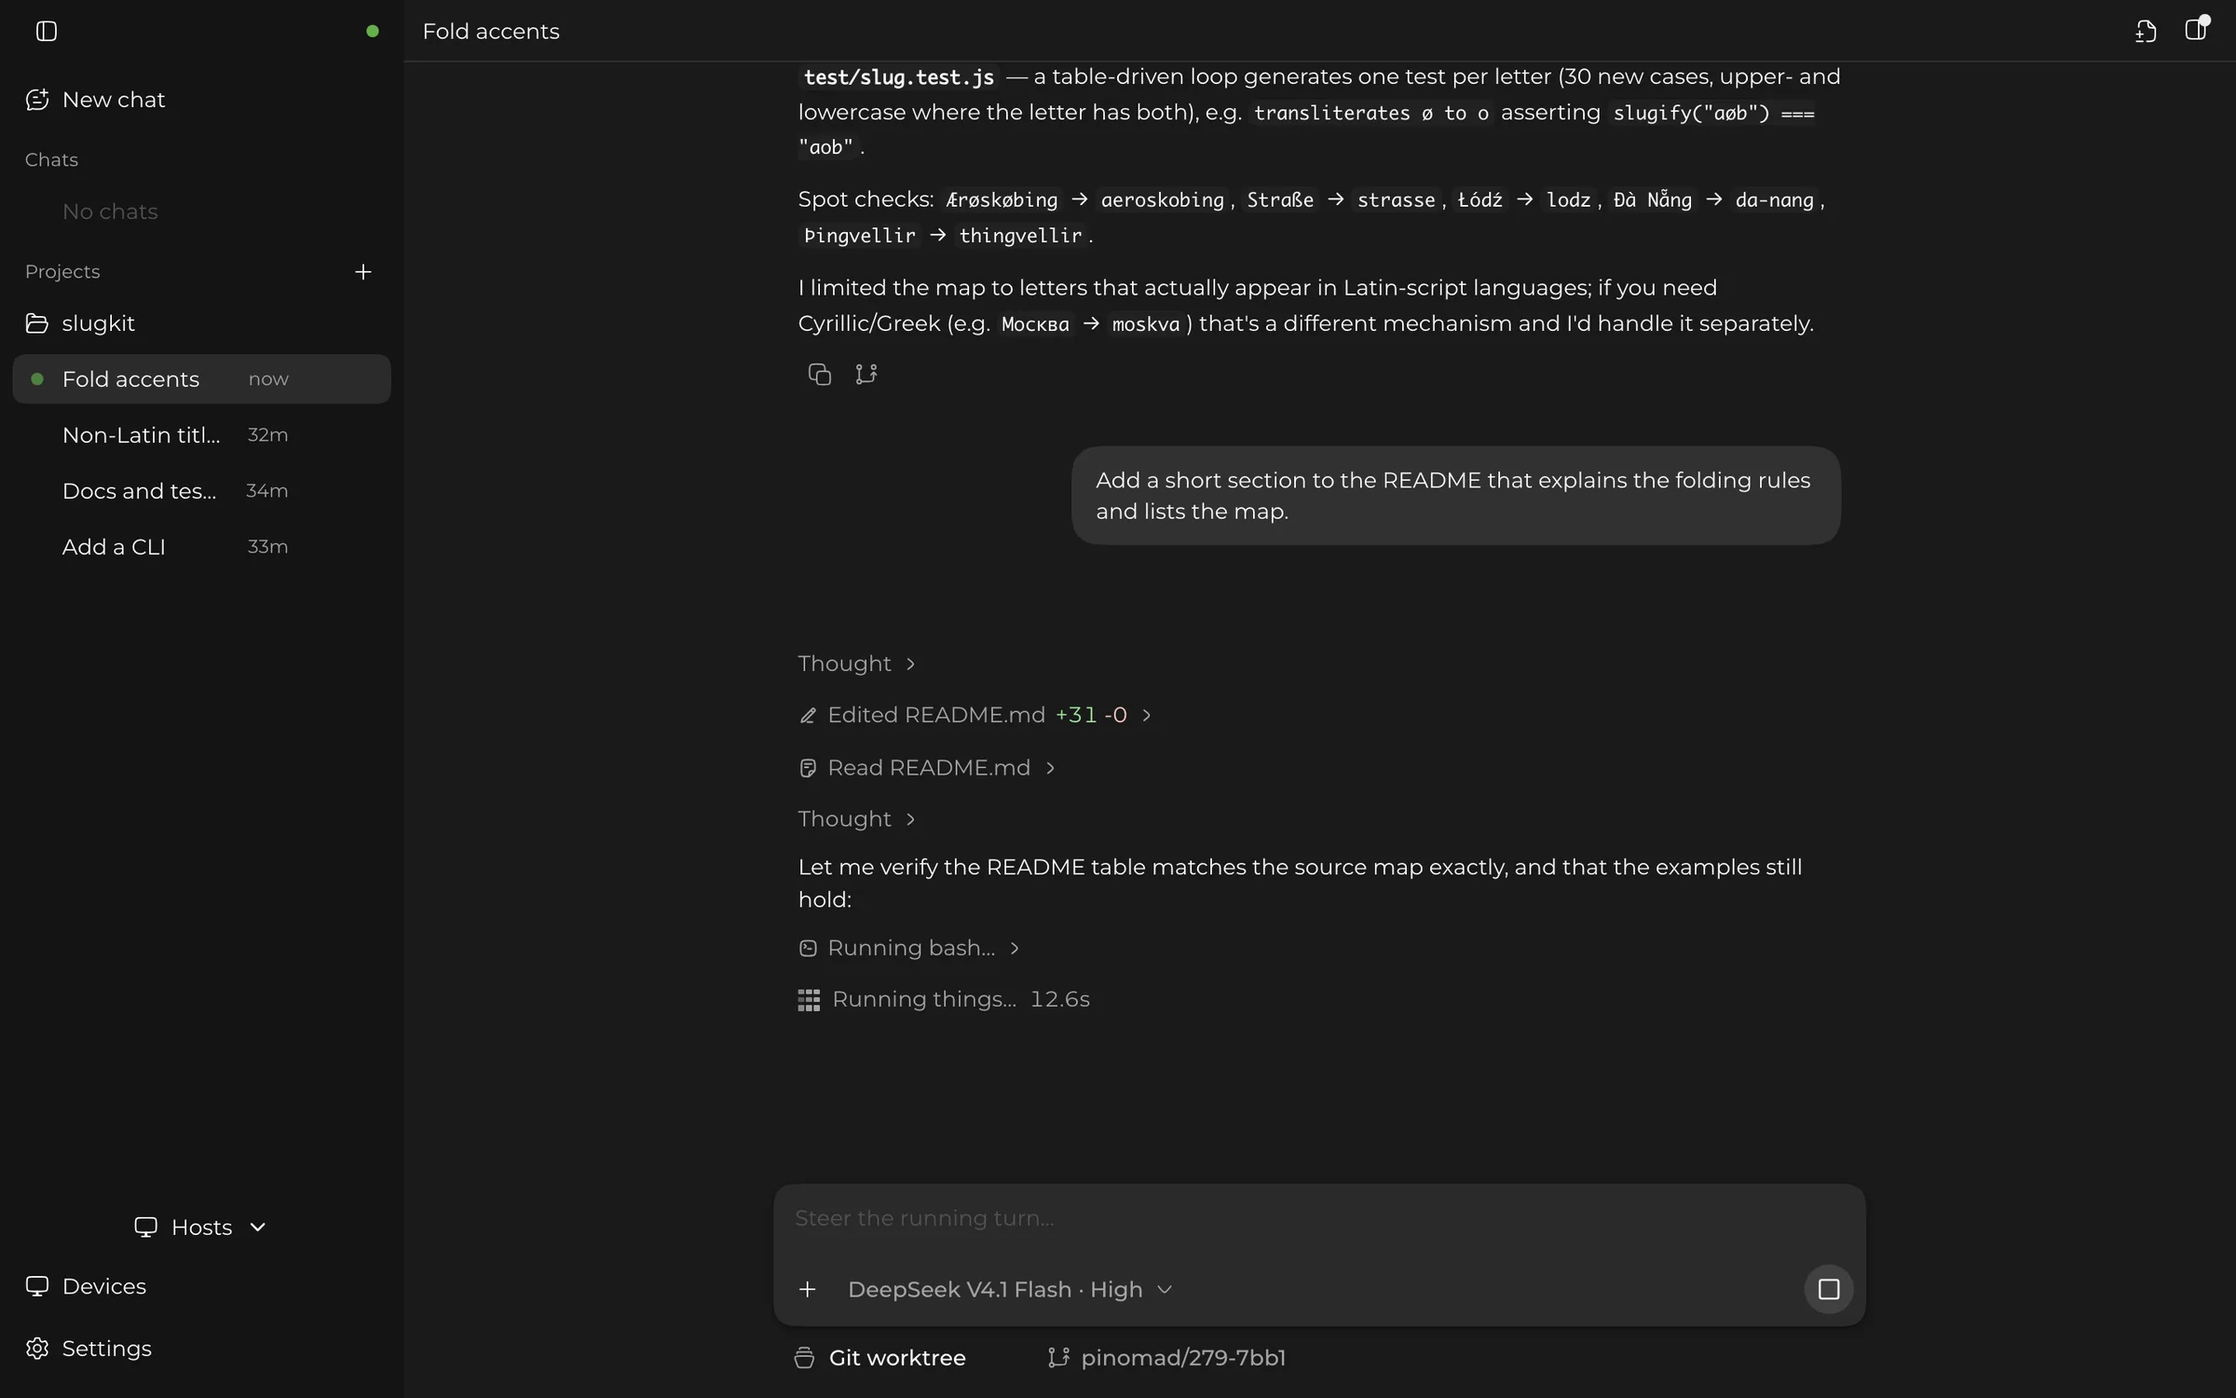
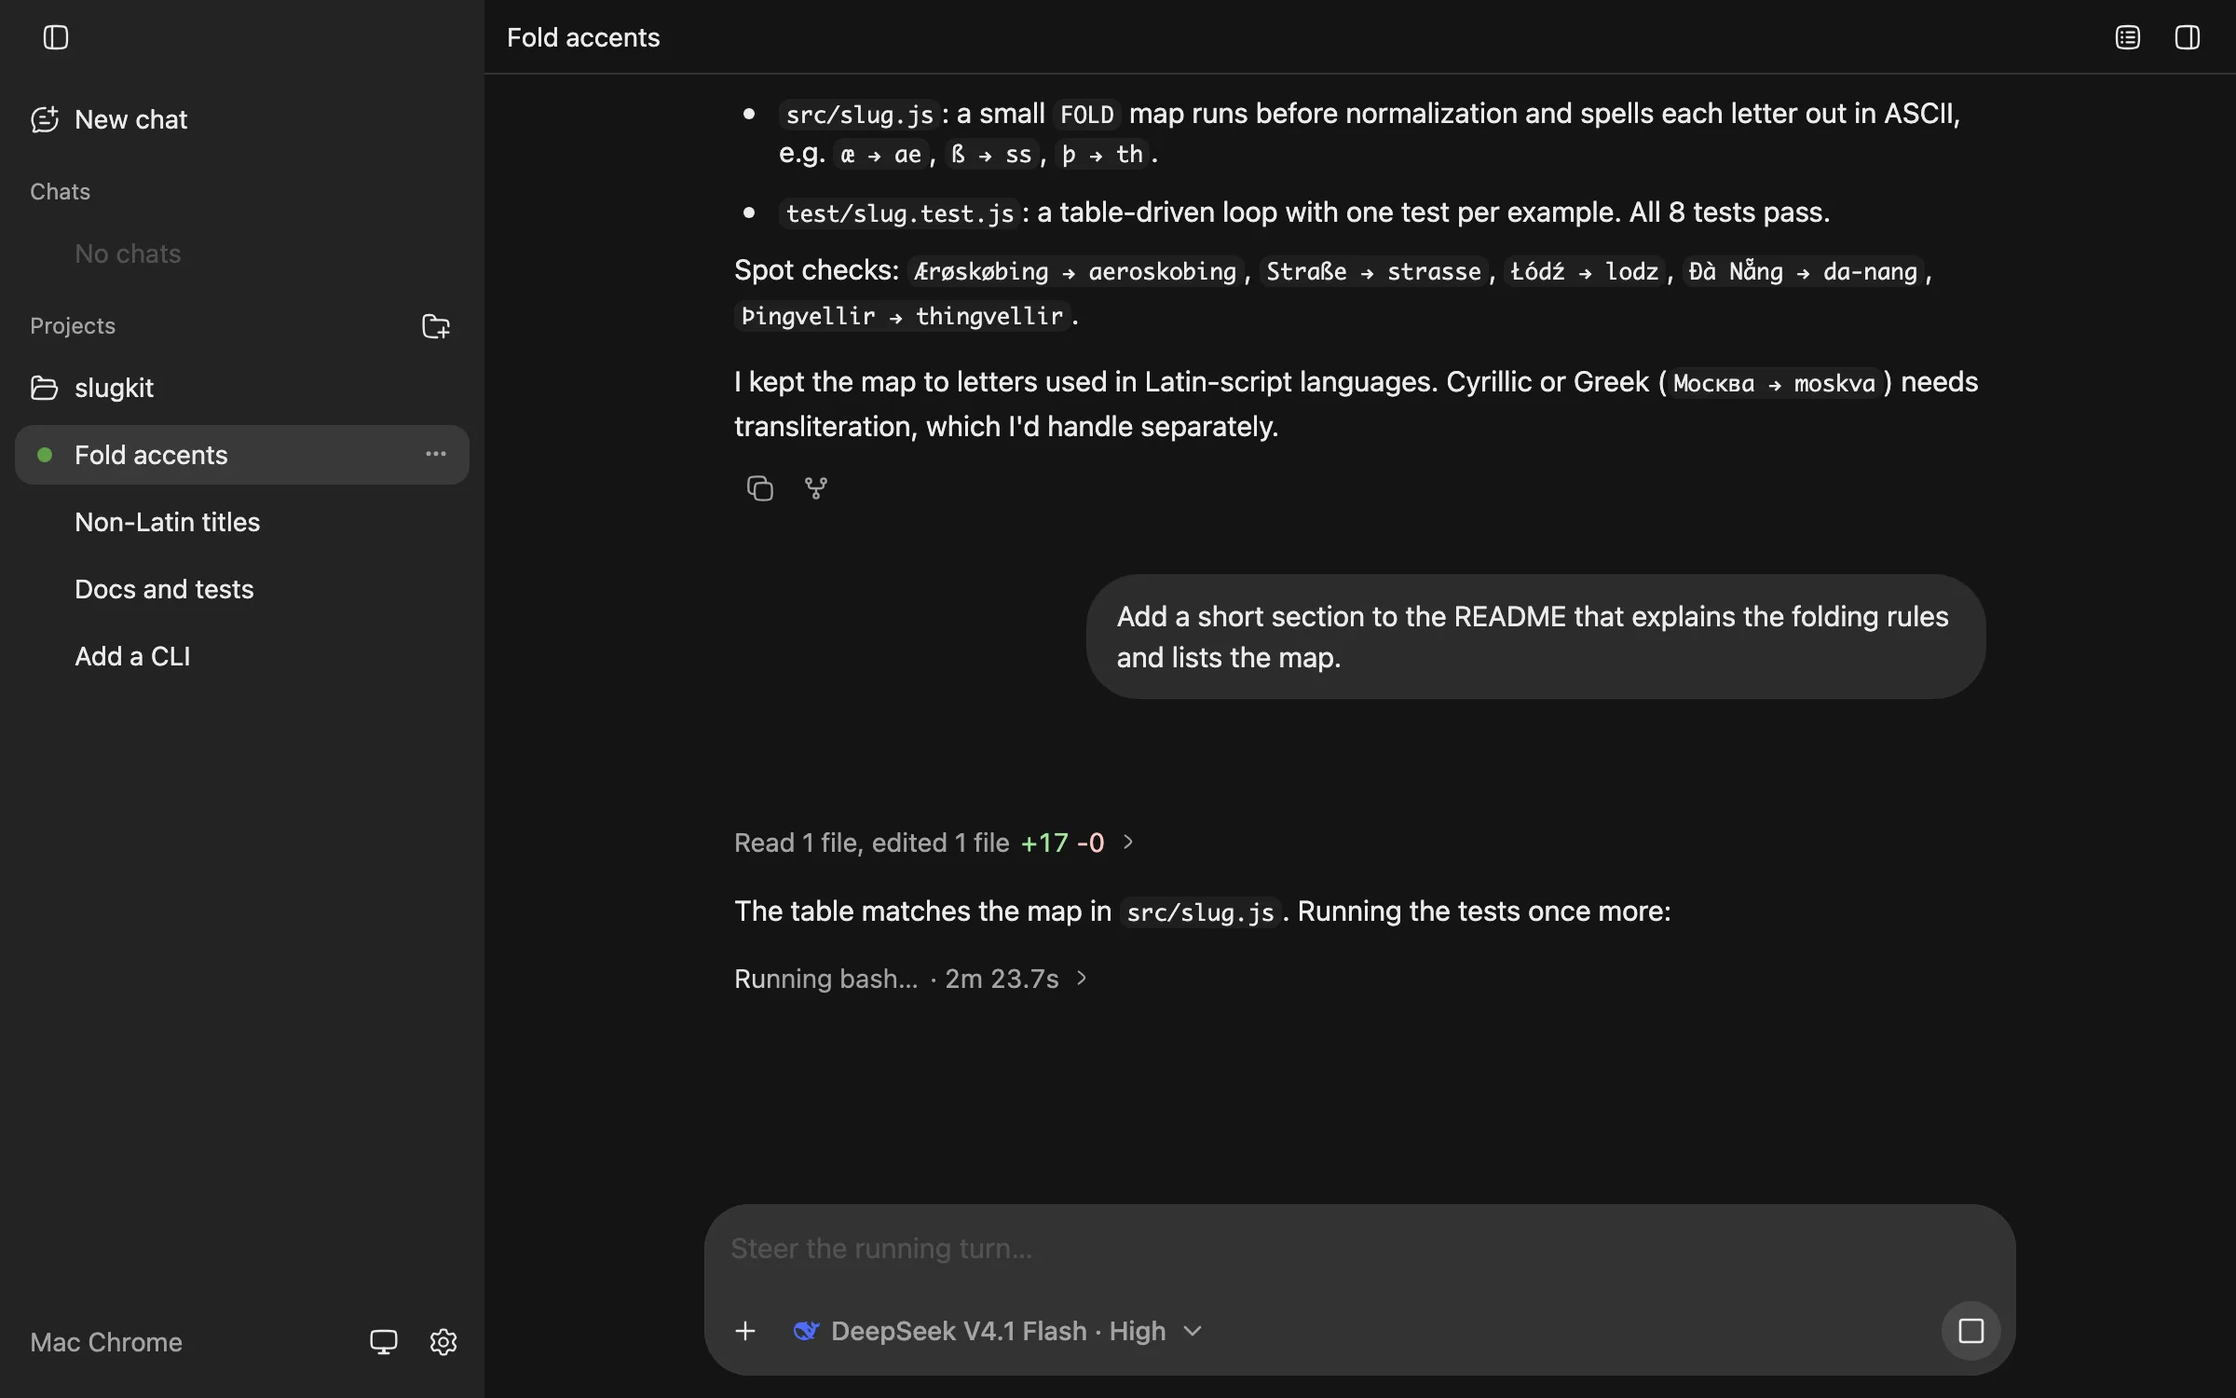
feat(site): real iPhone capture and reshot hero on the same run
The "Any screen" phone now shows a dark simulator capture of the iOS app
(1206 x 2622, en and zh) instead of the skeleton and its "screenshot
coming" caption; the hero and og:image are reshot so both show the same
run, the "Fold accents" conversation in slugkit, held mid-turn.

Both were staged on a scratch host with its own data dir and a scripted
faux model labelled DeepSeek V4.1 Flash; the read/edit/bash calls ran
for real in a small demo repo, and the last `npm test` is held open so
the run stays live. The hero is the web client in Playwright at
1200 x 750, DPR 2; the phone is a Debug build in the iPhone 17 Pro
simulator paired with -pairingLink. The hero stays the desktop window
alone, as agreed in #364 after #367.

The skeleton and caption CSS is gone with the placeholder copy key;
each image has its own alt text in both languages.

Closes #364

diff --git a/apps/site/src/landing/copy.tsx b/apps/site/src/landing/copy.tsx
@@ -27,7 +27,7 @@ export interface LandingCopy {
     title: string;
     lead: string;
     clients: string[];
-    placeholder: string;
+    shotAlt: string;
   };
   core: {
     eyebrow: string;
@@ -112,14 +112,15 @@ export const copy: Record<Lang, LandingCopy> = {
       models: [...models, "Qwen", "Kimi", "Z.AI", "MiniMax", "OpenRouter", "GitHub Copilot"],
       modelsMore: "17 more",
       shotAlt:
-        "The PiNomad web client mid-run: conversations in the sidebar; the agent has answered, been asked for more, and is now reading and editing files and running commands",
+        "The PiNomad web client mid-run: the slugkit project's conversations in the sidebar; the agent has folded accented letters in slugs, been asked to document the rules in the README, edited it, and is running the tests again",
     },
     anywhere: {
       eyebrow: "Any screen",
       title: "Step away from your desk",
       lead: "Start a task at your desk, then check on it or steer it from your phone. The Mac app, the web client, and the iPhone app attach to the same runs.",
       clients: ["Mac app", "Web", "iPhone"],
-      placeholder: "Screenshot coming: the same run on iPhone.",
+      shotAlt:
+        "The same run in the PiNomad iPhone app: the agent's summary of the accent folding, the README request below it, and the run still going at the bottom with a stop button",
     },
     core: {
       eyebrow: "How it works",
@@ -287,14 +288,14 @@ export const copy: Record<Lang, LandingCopy> = {
       modelsLabel: "pi 支持的模型都能用",
       models: [...models, "通义千问", "Kimi", "智谱 Z.AI", "MiniMax", "OpenRouter", "GitHub Copilot"],
       modelsMore: "另有 17 家",
-      shotAlt: "PiNomad Web 客户端运行画面：左侧是对话列表，agent 答完上一轮后，正顺着追问改测试、跑测试",
+      shotAlt: "PiNomad Web 客户端运行画面：左侧是 slugkit 项目的对话列表；agent 改好了重音字母的折叠，又被要求在 README 里写明规则，改完 README 后正在重跑测试",
     },
     anywhere: {
       eyebrow: "多端接力",
       title: "离开电脑也能接着管",
       lead: "在电脑前派好活，出门拿手机看进度，方向偏了随时插话调整。Mac App、Web 和 iPhone App 连的是同一批任务。",
       clients: ["Mac App", "Web", "iPhone"],
-      placeholder: "截图待补：在 iPhone 上接着看同一个任务。",
+      shotAlt: "同一个任务在 PiNomad iPhone App 里：上面是 agent 对重音字母折叠的总结，下面是写 README 的追问，最底下任务还在跑，旁边是停止按钮",
     },
     core: {
       eyebrow: "工作方式",

diff --git a/apps/site/src/landing/sections.tsx b/apps/site/src/landing/sections.tsx
@@ -20,11 +20,9 @@ export function SectionHead({ id, eyebrow, title, lead }: { id: string; eyebrow:
   );
 }
 
-/**
- * An iPhone drawn in CSS: titanium edge, black bezel, Dynamic Island, side buttons.
- * The screen holds an abstract skeleton until the app's screenshot replaces it.
- */
-function Phone({ caption, className }: { caption: string; className: string }) {
+/** An iPhone drawn in CSS around a screenshot: titanium edge, black bezel, Dynamic Island, side buttons. */
+function Phone({ lang, alt, className }: { lang: Lang; alt: string; className: string }) {
+  const image = shot(lang, "phone", 603, 1206);
   return (
     <figure className={`phone ${className}`}>
       <div className="phone-body">
@@ -34,21 +32,18 @@ function Phone({ caption, className }: { caption: string; className: string }) {
         <span className="phone-btn btn-side" />
         <span className="phone-btn btn-camera" />
         <div className="phone-screen">
-          <div className="shot-skeleton sk-phone" aria-hidden="true">
-            <span className="sk-line w55" />
-            <div className="sk-main">
-              <span className="sk-line w85" />
-              <span className="sk-line w70" />
-              <span className="sk-line w85" />
-              <span className="sk-gap" />
-              <span className="sk-line w55" />
-              <span className="sk-line w70" />
-            </div>
-          </div>
+          <img
+            src={image.src}
+            srcSet={image.srcSet}
+            sizes="(min-width: 56rem) 18rem, 16rem"
+            width="1206"
+            height="2622"
+            alt={alt}
+            loading="lazy"
+          />
           <span className="phone-island" />
         </div>
       </div>
-      <figcaption className="shot-label">{caption}</figcaption>
     </figure>
   );
 }
@@ -97,7 +92,7 @@ export function Hero({ lang, t }: { lang: Lang; t: LandingCopy["hero"] }) {
 }
 
 /** The phone gets a section of its own: drawn as a device, it doesn't sit well beside a flat screenshot. */
-export function Anywhere({ t }: { t: LandingCopy["anywhere"] }) {
+export function Anywhere({ lang, t }: { lang: Lang; t: LandingCopy["anywhere"] }) {
   return (
     <section className="section section-showcase" id="anywhere" aria-labelledby="anywhere-title">
       <div className="wrap split">
@@ -111,7 +106,7 @@ export function Anywhere({ t }: { t: LandingCopy["anywhere"] }) {
             ))}
           </ul>
         </div>
-        <Phone caption={t.placeholder} className="showcase-phone" />
+        <Phone lang={lang} alt={t.shotAlt} className="showcase-phone" />
       </div>
     </section>
   );

diff --git a/apps/site/src/landing/page.css b/apps/site/src/landing/page.css
@@ -436,8 +436,7 @@ html[lang="zh-CN"] .hero h1 {
 }
 
 /* —— Screenshots. Each slot keeps its image's aspect ratio, so the layout doesn't
-   move while it loads. A slot still waiting for its capture shows an abstract
-   skeleton: it should read as "screenshot goes here", never as the product. —— */
+   move while it loads. —— */
 .shot {
   position: relative;
   overflow: hidden;
@@ -473,57 +472,6 @@ html[lang="zh-CN"] .hero h1 {
 
 .shot-crop {
   aspect-ratio: 4 / 3;
-}
-
-.shot-skeleton {
-  position: absolute;
-  inset: 0;
-  display: grid;
-  grid-template-rows: auto 1fr;
-}
-
-.sk-main {
-  display: grid;
-  align-content: start;
-  gap: 0.85rem;
-  padding: 1.75rem clamp(1rem, 6%, 4rem);
-}
-
-.sk-line {
-  display: block;
-  height: 0.6rem;
-  border-radius: 999px;
-  background: var(--surface-2);
-}
-
-.sk-line.w40 {
-  width: 40%;
-}
-
-.sk-line.w55 {
-  width: 55%;
-}
-
-.sk-line.w70 {
-  width: 70%;
-}
-
-.sk-line.w85 {
-  width: 85%;
-}
-
-.sk-gap {
-  height: 0.75rem;
-}
-
-.shot-label {
-  position: absolute;
-  inset: auto 0 0;
-  padding: 1rem;
-  color: var(--fg-3);
-  font-size: 0.8rem;
-  text-align: center;
-  text-wrap: balance;
 }
 
 /* —— The iPhone, drawn in CSS. Sizes are in cqw, a share of the phone's own width, so
@@ -676,21 +624,6 @@ html[lang="zh-CN"] .hero h1 {
   top: 58%;
   height: 8%;
   right: -0.4cqw;
-}
-
-.phone .sk-phone {
-  padding: 20cqw 8cqw 8cqw;
-}
-
-.phone .sk-main {
-  padding: 1.25rem 0 0;
-}
-
-/* Over the bottom of the screen, inside the edge and bezel. */
-.phone .shot-label {
-  inset: auto 4.1cqw 4.1cqw;
-  padding: 6cqw;
-  font-size: max(0.65rem, 4.6cqw);
 }
 
 /* —— Sections —— */

diff --git a/apps/site/src/landing/landing.tsx b/apps/site/src/landing/landing.tsx
@@ -25,7 +25,7 @@ export function Landing({ lang, latest }: { lang: Lang; latest?: LatestRelease }
       <SiteHeader lang={lang} t={t} />
       <main id="main">
         <Hero lang={lang} t={t.hero} />
-        <Anywhere t={t.anywhere} />
+        <Anywhere lang={lang} t={t.anywhere} />
         <Core lang={lang} t={t.core} durable={t.durable} />
         <Agents lang={lang} t={t.agents} />
         <Connection t={t.connection} />

diff --git a/docs/website.md b/docs/website.md
@@ -18,7 +18,7 @@ cd apps/site && bun run build && bun run preview
 
 官网是 TanStack Start 应用，构建时把所有页面预渲染成静态文件（`dist/`），线上不跑服务端；预渲染用的服务端产物在 `.output/server/`，不发布。英文在根路径，中文在 `/zh/` 下；网址一律以 `/` 结尾（页面输出成 `<路径>/index.html`，Pages 会把不带斜杠的地址 308 过去）。
 
-- **落地页**：React 组件，在 `src/landing/`。文案在 `copy.tsx`，中英两份共用一个类型，缺了哪条 typecheck 就报错；改文案时两份一起改，功能描述以文档的 `features` 页为准。区块顺序和卖点见 #364：首屏、工作方式（本机运行、断点续跑、多端接入三格 bento）、具名 Agent、连接、接下来（还没上线的规划，虚线卡片，每项链到 issue）、开始使用。区块组件在 `sections.tsx`，有交互的单独成文件（`durable.tsx` 是"拔电源"示意图，`get-started.tsx` 带复制按钮和最新版本号，版本号由路由 loader 在预渲染时从更新日志取），页头页脚在 `site-header.tsx` / `site-footer.tsx`，页头元信息在 `meta.ts`。样式入口是 `landing.css`：页面自己的规则在 `page.css`，放在 `landing` 层里；Tailwind 的主题变量在它下面一层，utilities 在它上面一层，所以元素上的 utility 能盖过 `page.css` 的元素选择器。没有引 preflight（会改掉页面的默认样式），组件依赖的两条（`[hidden]` 和按钮继承字体）抄在 `landing.css` 末尾；Tailwind 只扫 `src/landing/` 和 `src/components/ui/`。页头的站内链接（文档、博客、更新日志、登录）和文档页的 Fumadocs 页头共用 `src/lib/nav.ts`，不放页内锚点。截图放在 `apps/site/shots/`（中英各一份，都是深色模式），每张有 2x 原图（`hero.webp` 2400×1500，`subagents.webp` 1120×840）和同名加 `-<宽>` 的 1x 版本，页面用 `srcset` 二选一（`shots.ts`）；`public/og-image.jpg` 是英文首屏图缩到 1920×1200。图标直接引用 `apps/web/public/` 里的文件，构建时打上哈希。还没画的示意图和 iPhone 截图用抽象占位（`Placeholder` / `PhonePlaceholder`，配一行说明待补什么），iPhone 截图等原生 iOS 版替换验收（#133）后补。示意图的 SVG 是 `aria-hidden` 的，读屏用的描述写在文案里。
+- **落地页**：React 组件，在 `src/landing/`。文案在 `copy.tsx`，中英两份共用一个类型，缺了哪条 typecheck 就报错；改文案时两份一起改，功能描述以文档的 `features` 页为准。区块顺序和卖点见 #364：首屏、工作方式（本机运行、断点续跑、多端接入三格 bento）、具名 Agent、连接、接下来（还没上线的规划，虚线卡片，每项链到 issue）、开始使用。区块组件在 `sections.tsx`，有交互的单独成文件（`durable.tsx` 是"拔电源"示意图，`get-started.tsx` 带复制按钮和最新版本号，版本号由路由 loader 在预渲染时从更新日志取），页头页脚在 `site-header.tsx` / `site-footer.tsx`，页头元信息在 `meta.ts`。样式入口是 `landing.css`：页面自己的规则在 `page.css`，放在 `landing` 层里；Tailwind 的主题变量在它下面一层，utilities 在它上面一层，所以元素上的 utility 能盖过 `page.css` 的元素选择器。没有引 preflight（会改掉页面的默认样式），组件依赖的两条（`[hidden]` 和按钮继承字体）抄在 `landing.css` 末尾；Tailwind 只扫 `src/landing/` 和 `src/components/ui/`。页头的站内链接（文档、博客、更新日志、登录）和文档页的 Fumadocs 页头共用 `src/lib/nav.ts`，不放页内锚点。截图放在 `apps/site/shots/`（中英各一份，都是深色模式），每张有 2x 原图（`hero.webp` 2400×1500，`phone.webp` 1206×2622，`subagents.webp` 1120×840）和同名加 `-<宽>` 的 1x 版本，页面用 `srcset` 二选一（`shots.ts`）；`public/og-image.jpg` 是英文首屏图缩到 1920×1200。首屏和 iPhone 两张拍的是同一个任务：临时宿主（单独的数据目录）配脚本化的 faux 模型（标成 DeepSeek V4.1 Flash），读写和 bash 调用在一个小的 slugkit 演示仓库里真实执行，最后一步的 `npm test` 故意挂住，让任务停在运行中；首屏是 Web 客户端（Playwright，1200×750，DPR 2），iPhone 是模拟器里的 Debug 包（`-pairingLink` 配对）。中文版只是内容不同，两个客户端都没有中文界面。图标直接引用 `apps/web/public/` 里的文件，构建时打上哈希。示意图的 SVG 是 `aria-hidden` 的，读屏用的描述写在文案里。
 - **组件库**：`apps/site/components.json` 是 shadcn 的配置，选的是 Base UI 风格（`base-vega`，和 Fumadocs 用的同一个 Base UI，版本钉在锁文件里已有的那个）。用 `bunx shadcn add <组件>` 把组件源码复制进 `src/components/ui/`，再按落地页的样子改：shadcn 的主题名（`bg-primary`、`border-input` 等）在 `landing.css` 里映射到页面自己的变量，落地页只有深色。`button.tsx` 就是这样改过来的，链接要按钮样式时用 `buttonVariants()` 套在普通 `<a>` 上。React Bits 也走 shadcn 注册表（`@react-bits/<名字>-TS-TW`），但许可不是普通开源许可：免费版是 MIT 加 Commons Clause（可以作为网站的一部分使用，不能把组件本身再分发），Pro 版的许可明确禁止把组件放进开源仓库。这个仓库是公开的，Pro 组件不能入库；免费组件入库前先定好许可怎么标注（#360）。不要在 `apps/site` 里跑 `shadcn init`，`add` 之后也要看一眼 `landing.css` 的改动：CLI 会往里加 `@import` 和 `body`、`*` 上的基础样式，文档页和落地页都会跟着变。
 - **文档和博客**用 Fumadocs：内容在 `content/docs/`、`content/blog/`。用户文档以这里为准，仓库里的 `docs/usage.md` 等只是指向官网的链接，README 只留快速上手；中文版是同名加 `.zh` 的文件（`index.zh.mdx`），没有中文版的页面在中文站显示英文版。侧栏顺序在 `content/docs/meta.json`。搜索索引在构建时生成为 `/api/search.json`，在浏览器里搜。
 - **更新日志**：`content/changelog/` 每个版本一个文件（`v0.7.0.mdx`，中文版 `v0.7.0.zh.mdx`），frontmatter 写 `title`、`version`、`date`，正文写给用户看的变化，不照搬 GitHub Release 自动生成的 PR 列表。`/changelog/` 一页按日期倒序列出全部版本，每条链到对应的 GitHub Release。
